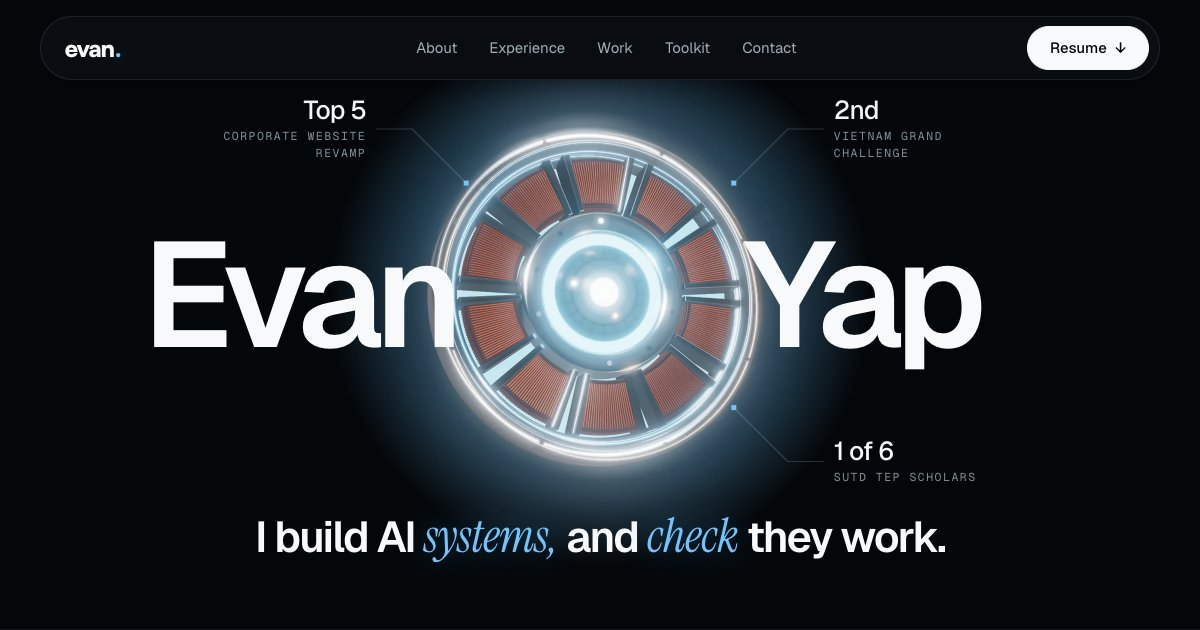
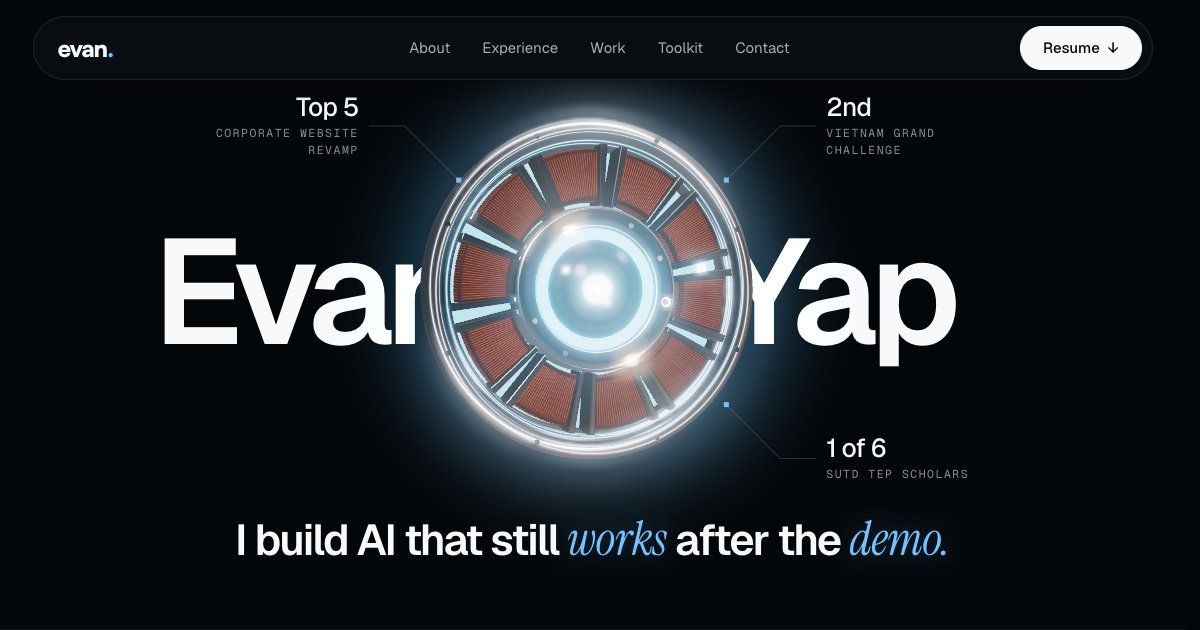
content: say what the headline means
"I build AI that still works after the demo" replaces "I build AI
systems, and check they work", in the hero, the share text and a new
share image.

diff --git a/index.html b/index.html
@@ -10,14 +10,14 @@
   <meta name="theme-color" content="#04070a">
   <meta property="og:title" content="Evan Yap | Software and AI engineering">
   <meta property="og:description"
-    content="I build AI systems and check they work. Top 5 at the Corporate Website Revamp Challenge, 2nd place at a regional hackathon.">
+    content="I build AI that still works after the demo. Top 5 at the Corporate Website Revamp Challenge, 2nd place at a regional hackathon.">
   <meta property="og:type" content="website">
   <meta property="og:url" content="https://www.evanyap.com/">
   <meta property="og:image" content="https://www.evanyap.com/img/og.jpg">
   <meta property="og:image:width" content="1200">
   <meta property="og:image:height" content="630">
   <meta property="og:image:alt"
-    content="Evan Yap's portfolio: his name either side of a glowing arc reactor, over the headline “I build AI systems, and check they work”.">
+    content="Evan Yap's portfolio: his name tucked behind a glowing arc reactor, over the headline “I build AI that still works after the demo”.">
   <meta name="twitter:card" content="summary_large_image">
   <link rel="canonical" href="https://www.evanyap.com/">
   <link rel="icon"
@@ -109,8 +109,8 @@
       <div class="reactor__panel">
         <p class="reactor__status mono" data-reactor-status aria-hidden="true"></p>
       </div>
-      <h1 class="hero__title" id="hero-title">I build AI <span class="serif">systems,</span> and
-        <span class="serif">check</span> they work.</h1>
+      <h1 class="hero__title" id="hero-title">I build AI that still <span class="serif">works</span> after
+        the <span class="serif">demo.</span></h1>
       <p class="hero__lede">Engineering Systems and Design student at SUTD and AI Business Consultant Intern at Univers.
         Looking for software engineering and AI internships.</p>
       <p class="hero__actions">

diff --git a/tests/checks.js b/tests/checks.js
@@ -384,7 +384,7 @@ export async function copy(win, frame) {
 // screen reader gets must read exactly as written, nothing in a heading may
 // be aria-hidden, and once a title has been seen every word is in place.
 const TITLES = {
-  'hero-title': 'I build AI systems, and check they work.',
+  'hero-title': 'I build AI that still works after the demo.',
   'about-title': 'About me',
   'experience-title': 'My experience',
   'work-title': 'Selected work',
